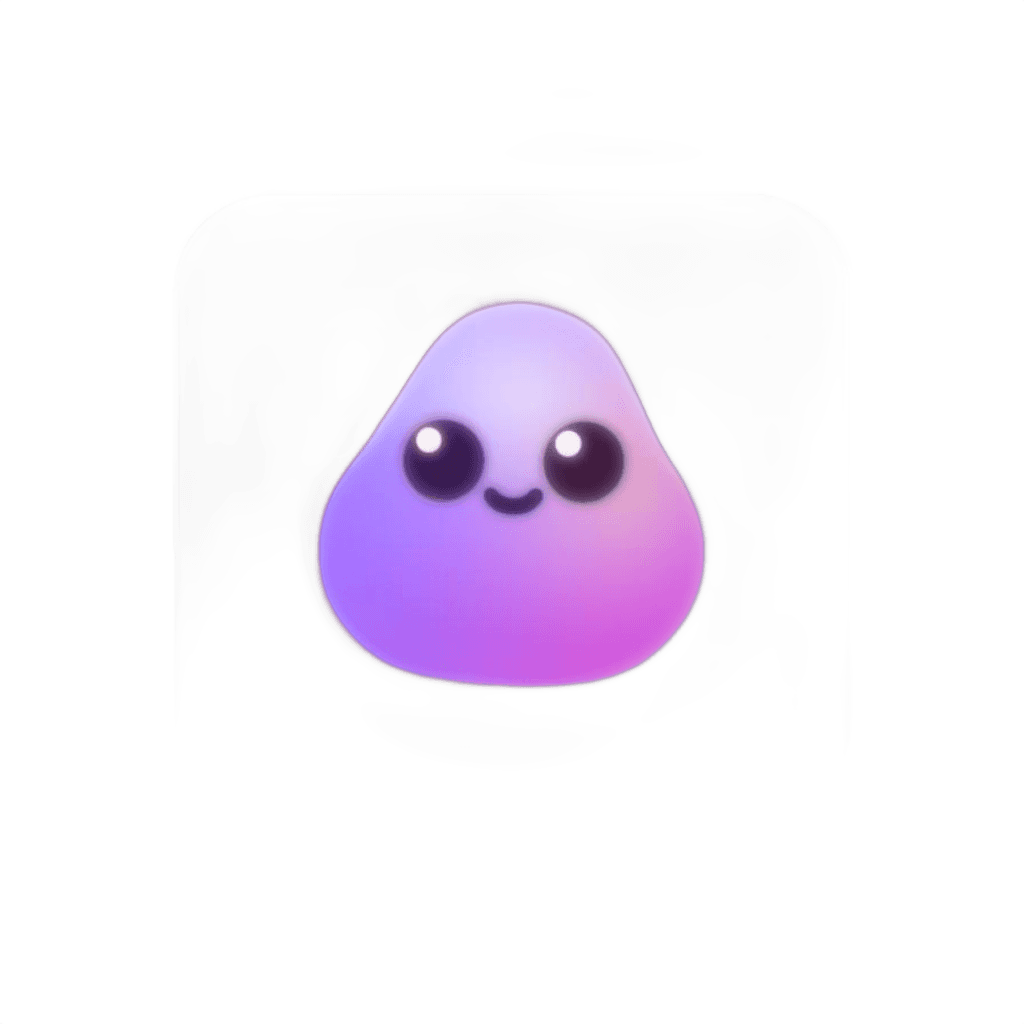
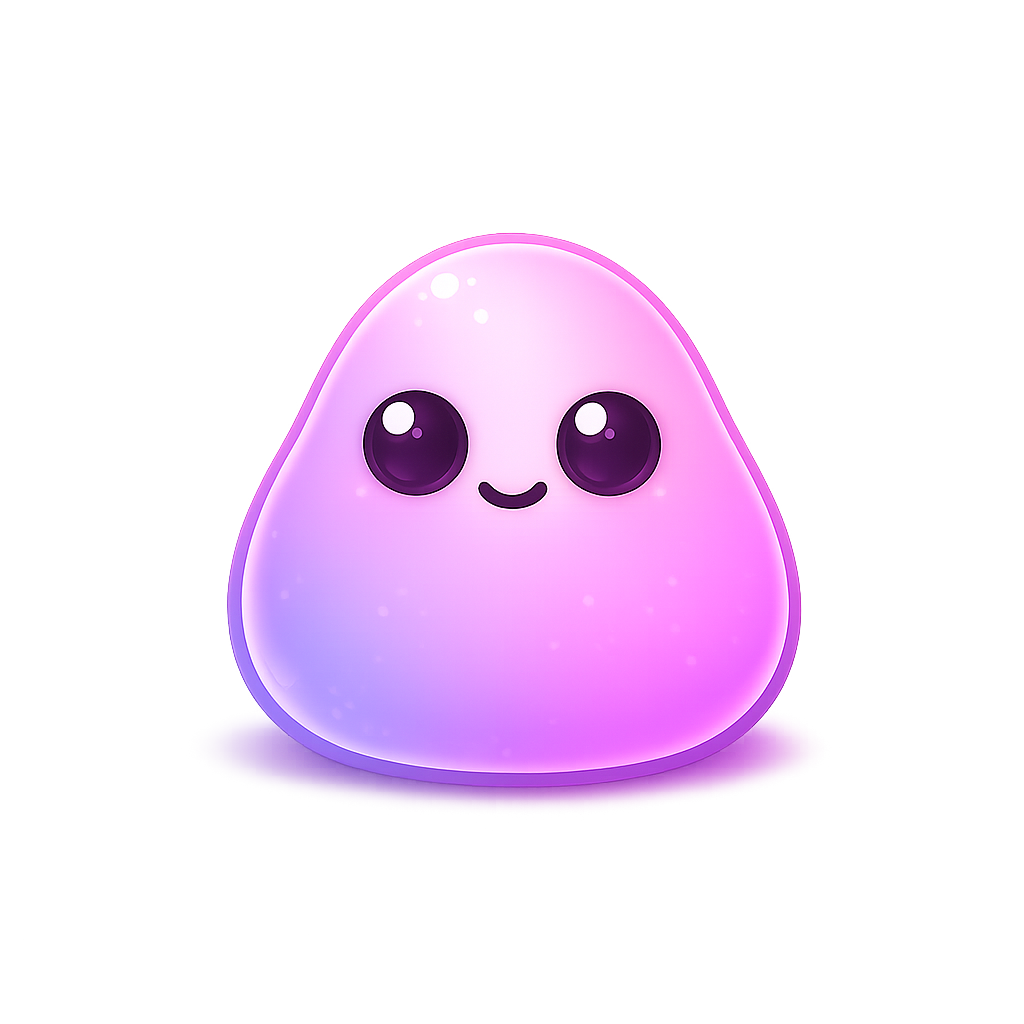
Add holographic Bob with hover shine
The HoloBob brand promised a hologram but the mascot was a flat PNG.
Swaps in rounder gumdrop artwork plus pure-CSS holographic effects
(purple-dominant shimmer, dome highlight, ground shadow, mouse-tracked
tilt and shine) so the mascot finally matches the name.

Changed region(s): [[0.2188, 0.2188, 0.7812, 0.8125]]

diff --git a/app/globals.css b/app/globals.css
@@ -62,6 +62,13 @@
   --font-sans:        var(--font-inter);
 }
 
+/* Registered custom property — required to animate conic-gradient angle */
+@property --holo-angle {
+  syntax: '<angle>';
+  inherits: false;
+  initial-value: 0deg;
+}
+
 /* ============================================================
    RESET + BASE
    ============================================================ */
@@ -106,7 +113,38 @@ a:hover { color: var(--orange); }
   border-bottom: 1px solid var(--border);
 }
 .hb-brand { display: flex; align-items: center; gap: 12px; }
-.hb-brand-mascot { width: 64px; height: 64px; }
+.hb-brand-mascot {
+  position: relative;
+  width: 64px; height: 64px;
+  display: inline-block;
+  flex-shrink: 0;
+}
+.hb-brand-mascot img {
+  width: 100%; height: 100%; object-fit: contain;
+  filter:
+    drop-shadow(0 0 4px rgba(93, 230, 230, 0.35))
+    drop-shadow(0 0 6px rgba(232, 123, 168, 0.35))
+    drop-shadow(0 4px 10px rgba(155, 107, 223, 0.45));
+}
+.hb-brand-mascot::after {
+  content: ''; position: absolute; inset: 0;
+  background: conic-gradient(from var(--holo-angle, 0deg),
+    #9B6BDF 0deg,
+    #5DE6E6 85deg,
+    #9B6BDF 130deg,
+    #E87BA8 200deg,
+    #9B6BDF 240deg,
+    #E8963F 300deg,
+    #9B6BDF 360deg);
+  -webkit-mask-image: url(/holobob-companion.png);
+          mask-image: url(/holobob-companion.png);
+  -webkit-mask-size: contain; mask-size: contain;
+  -webkit-mask-repeat: no-repeat; mask-repeat: no-repeat;
+  -webkit-mask-position: center; mask-position: center;
+  mix-blend-mode: color; opacity: 0.55;
+  pointer-events: none;
+  animation: hb-holo-spin 14s linear infinite;
+}
 .hb-wordmark { display: flex; align-items: baseline; gap: 6px; }
 .hb-holo {
   font-family: var(--font-arcade); font-size: 18px;
@@ -231,16 +269,94 @@ a:hover { color: var(--orange); }
   width: 280px; aspect-ratio: 1;
   display: flex; align-items: center; justify-content: center;
   position: relative;
+  perspective: 800px;
+  transform: rotateY(var(--tilt-y, 0deg)) rotateX(var(--tilt-x, 0deg));
+  transition: transform 200ms ease-out;
 }
 .hb-mascot-bare::before {
-  content: ''; position: absolute; inset: 10%;
-  background: var(--grad-glow); filter: blur(40px); opacity: 0.7;
+  content: ''; position: absolute; inset: 12%;
+  background: var(--grad-glow); filter: blur(48px); opacity: 0.55;
   pointer-events: none; z-index: 0;
+}
+.hb-mascot-bare::after {
+  content: ''; position: absolute; inset: 0; z-index: 2;
+  background: conic-gradient(from var(--holo-angle, 0deg),
+    #9B6BDF 0deg,
+    #5DE6E6 85deg,
+    #9B6BDF 130deg,
+    #E87BA8 200deg,
+    #9B6BDF 240deg,
+    #E8963F 300deg,
+    #9B6BDF 360deg);
+  -webkit-mask-image: url(/holobob-companion.png);
+          mask-image: url(/holobob-companion.png);
+  -webkit-mask-size: contain; mask-size: contain;
+  -webkit-mask-repeat: no-repeat; mask-repeat: no-repeat;
+  -webkit-mask-position: center; mask-position: center;
+  mix-blend-mode: color; opacity: 0.70;
+  pointer-events: none;
+  animation: hb-holo-spin 6s linear infinite, hb-holo-float 5.5s ease-in-out infinite;
 }
 .hb-mascot-bare img {
   position: relative; z-index: 1;
   width: 100%; height: 100%; object-fit: contain;
-  filter: drop-shadow(0 12px 40px rgba(155, 107, 223, 0.45));
+  filter:
+    drop-shadow(0 0 8px rgba(93, 230, 230, 0.30))
+    drop-shadow(0 0 10px rgba(232, 123, 168, 0.30))
+    drop-shadow(0 10px 28px rgba(155, 107, 223, 0.45));
+  animation: hb-holo-float 5.5s ease-in-out infinite;
+  transform-style: preserve-3d;
+}
+.hb-mascot-spec {
+  position: absolute; inset: 0; z-index: 3;
+  background:
+    radial-gradient(ellipse 22% 12% at 50% 18%, rgba(255, 255, 255, 0.85), rgba(255, 255, 255, 0.25) 45%, transparent 75%),
+    radial-gradient(ellipse 50% 32% at 50% 22%, rgba(255, 255, 255, 0.45), rgba(255, 255, 255, 0.10) 50%, transparent 78%);
+  -webkit-mask-image: url(/holobob-companion.png);
+          mask-image: url(/holobob-companion.png);
+  -webkit-mask-size: contain; mask-size: contain;
+  -webkit-mask-repeat: no-repeat; mask-repeat: no-repeat;
+  -webkit-mask-position: center; mask-position: center;
+  mix-blend-mode: screen;
+  pointer-events: none;
+  animation: hb-holo-float 5.5s ease-in-out infinite;
+}
+.hb-mascot-floor {
+  position: absolute; left: 50%; bottom: 4%;
+  transform: translateX(-50%);
+  width: 62%; height: 7%;
+  background: radial-gradient(ellipse, rgba(0, 0, 0, 0.55) 0%, rgba(0, 0, 0, 0.22) 45%, transparent 75%);
+  filter: blur(6px);
+  pointer-events: none;
+  z-index: 0;
+  animation: hb-mascot-floor-pulse 5.5s ease-in-out infinite;
+}
+.hb-mascot-shine {
+  position: absolute; inset: 0; z-index: 4;
+  background: radial-gradient(
+    circle 30% at calc(var(--mx, 0.5) * 100%) calc(var(--my, 0.5) * 100%),
+    rgba(255, 255, 255, 0.75),
+    rgba(255, 255, 255, 0.25) 35%,
+    transparent 70%);
+  -webkit-mask-image: url(/holobob-companion.png);
+          mask-image: url(/holobob-companion.png);
+  -webkit-mask-size: contain; mask-size: contain;
+  -webkit-mask-repeat: no-repeat; mask-repeat: no-repeat;
+  -webkit-mask-position: center; mask-position: center;
+  mix-blend-mode: screen;
+  pointer-events: none;
+  opacity: 0;
+  transition: opacity 250ms ease-out;
+}
+.hb-mascot-bare:hover .hb-mascot-shine { opacity: 1; }
+@keyframes hb-holo-spin { to { --holo-angle: 360deg; } }
+@keyframes hb-holo-float {
+  0%, 100% { transform: translateY(0)    rotateY(-4deg) rotateX(2deg); }
+  50%      { transform: translateY(-8px) rotateY(4deg)  rotateX(-2deg); }
+}
+@keyframes hb-mascot-floor-pulse {
+  0%, 100% { opacity: 0.95; transform: translateX(-50%) scale(1, 1); }
+  50%      { opacity: 0.65; transform: translateX(-50%) scale(0.82, 0.65); }
 }
 
 /* ============================================================
@@ -248,13 +364,38 @@ a:hover { color: var(--orange); }
    ============================================================ */
 
 .hb-bob-row { display: flex; gap: 12px; align-items: flex-start; max-width: 420px; }
-.hb-bob-mascot { width: 56px; height: 56px; flex-shrink: 0; }
-.hb-bob-mascot img {
-  width: 100%; height: 100%; object-fit: contain;
-  filter: drop-shadow(0 4px 16px rgba(155, 107, 223, 0.4));
+.hb-bob-mascot {
+  width: 56px; height: 56px; flex-shrink: 0;
+  position: relative;
   animation: hb-bob-bounce 600ms cubic-bezier(.2, .9, .3, 1.4);
 }
-.hb-bob-mascot.happy img { animation: hb-bob-pop 800ms ease-out; }
+.hb-bob-mascot.happy { animation: hb-bob-pop 800ms ease-out; }
+.hb-bob-mascot img {
+  width: 100%; height: 100%; object-fit: contain;
+  filter:
+    drop-shadow(0 0 4px rgba(93, 230, 230, 0.30))
+    drop-shadow(0 0 6px rgba(232, 123, 168, 0.30))
+    drop-shadow(0 4px 12px rgba(155, 107, 223, 0.40));
+}
+.hb-bob-mascot::after {
+  content: ''; position: absolute; inset: 0;
+  background: conic-gradient(from var(--holo-angle, 0deg),
+    #9B6BDF 0deg,
+    #5DE6E6 85deg,
+    #9B6BDF 130deg,
+    #E87BA8 200deg,
+    #9B6BDF 240deg,
+    #E8963F 300deg,
+    #9B6BDF 360deg);
+  -webkit-mask-image: url(/holobob-companion.png);
+          mask-image: url(/holobob-companion.png);
+  -webkit-mask-size: contain; mask-size: contain;
+  -webkit-mask-repeat: no-repeat; mask-repeat: no-repeat;
+  -webkit-mask-position: center; mask-position: center;
+  mix-blend-mode: color; opacity: 0.60;
+  pointer-events: none;
+  animation: hb-holo-spin 10s linear infinite;
+}
 @keyframes hb-bob-bounce {
   from { opacity: 0; transform: translateY(12px); }
   to { opacity: 1; transform: translateY(0); }
@@ -512,4 +653,31 @@ a:hover { color: var(--orange); }
   .hb-agentic-inner { padding: 32px 24px; }
   .hb-agentic-track { grid-template-columns: 1fr; }
   .hb-agentic-arrow { transform: rotate(90deg); padding: 4px 0; }
+
+  .hb-mascot-bare::after { opacity: 0.50; }
+}
+
+/* ============================================================
+   REDUCED MOTION
+   ============================================================ */
+
+@media (prefers-reduced-motion: reduce) {
+  .hb-mascot-bare,
+  .hb-mascot-bare img,
+  .hb-mascot-bare::after,
+  .hb-mascot-spec,
+  .hb-mascot-floor,
+  .hb-mascot-shine,
+  .hb-brand-mascot::after,
+  .hb-bob-mascot,
+  .hb-bob-mascot.happy,
+  .hb-bob-mascot::after {
+    animation: none !important;
+    transform: none !important;
+    transition: none !important;
+  }
+  .hb-mascot-floor { transform: translateX(-50%) !important; }
+  .hb-mascot-bare::after { opacity: 0.50; }
+  .hb-brand-mascot::after { opacity: 0.40; }
+  .hb-bob-mascot::after { opacity: 0.45; }
 }

diff --git a/app/components/HoloMascot.tsx b/app/components/HoloMascot.tsx
@@ -1,0 +1,42 @@
+"use client";
+
+import { useRef, type MouseEvent } from "react";
+
+export default function HoloMascot() {
+  const ref = useRef<HTMLDivElement>(null);
+
+  function handleMove(e: MouseEvent<HTMLDivElement>) {
+    const el = ref.current;
+    if (!el) return;
+    const rect = el.getBoundingClientRect();
+    const x = (e.clientX - rect.left) / rect.width;
+    const y = (e.clientY - rect.top) / rect.height;
+    el.style.setProperty("--mx", x.toString());
+    el.style.setProperty("--my", y.toString());
+    el.style.setProperty("--tilt-y", `${(x - 0.5) * 16}deg`);
+    el.style.setProperty("--tilt-x", `${(0.5 - y) * 12}deg`);
+  }
+
+  function handleLeave() {
+    const el = ref.current;
+    if (!el) return;
+    el.style.removeProperty("--mx");
+    el.style.removeProperty("--my");
+    el.style.removeProperty("--tilt-x");
+    el.style.removeProperty("--tilt-y");
+  }
+
+  return (
+    <div
+      ref={ref}
+      className="hb-mascot-bare"
+      onMouseMove={handleMove}
+      onMouseLeave={handleLeave}
+    >
+      <span className="hb-mascot-floor" aria-hidden />
+      <img src="/holobob-companion.png" alt="HoloBob" />
+      <span className="hb-mascot-spec" aria-hidden />
+      <span className="hb-mascot-shine" aria-hidden />
+    </div>
+  );
+}

diff --git a/app/components/Hero.tsx b/app/components/Hero.tsx
@@ -1,4 +1,5 @@
 import BobBubble from "./BobBubble";
+import HoloMascot from "./HoloMascot";
 import type { Persona } from "../lib/persona";
 
 const headlines = {
@@ -42,9 +43,7 @@ export default function Hero({ persona }: { persona: Persona }) {
             <span className="holo">HOLO</span>
             <span className="bob">BOB</span>
           </div>
-          <div className="hb-mascot-bare">
-            <img src="/holobob-companion.png" alt="HoloBob" />
-          </div>
+          <HoloMascot />
           <BobBubble mood="happy">{h.bob}</BobBubble>
         </div>
       </div>

diff --git a/app/components/Header.tsx b/app/components/Header.tsx
@@ -14,7 +14,9 @@ export default function Header({
   return (
     <header className="hb-header">
       <Link href="/" className="hb-brand" aria-label="HoloBob — home">
-        <img src="/holobob-companion.png" alt="" className="hb-brand-mascot" />
+        <span className="hb-brand-mascot">
+          <img src="/holobob-companion.png" alt="" />
+        </span>
         <div className="hb-wordmark">
           <span className="hb-holo">HOLO</span>
           <span className="hb-bob">BOB</span>